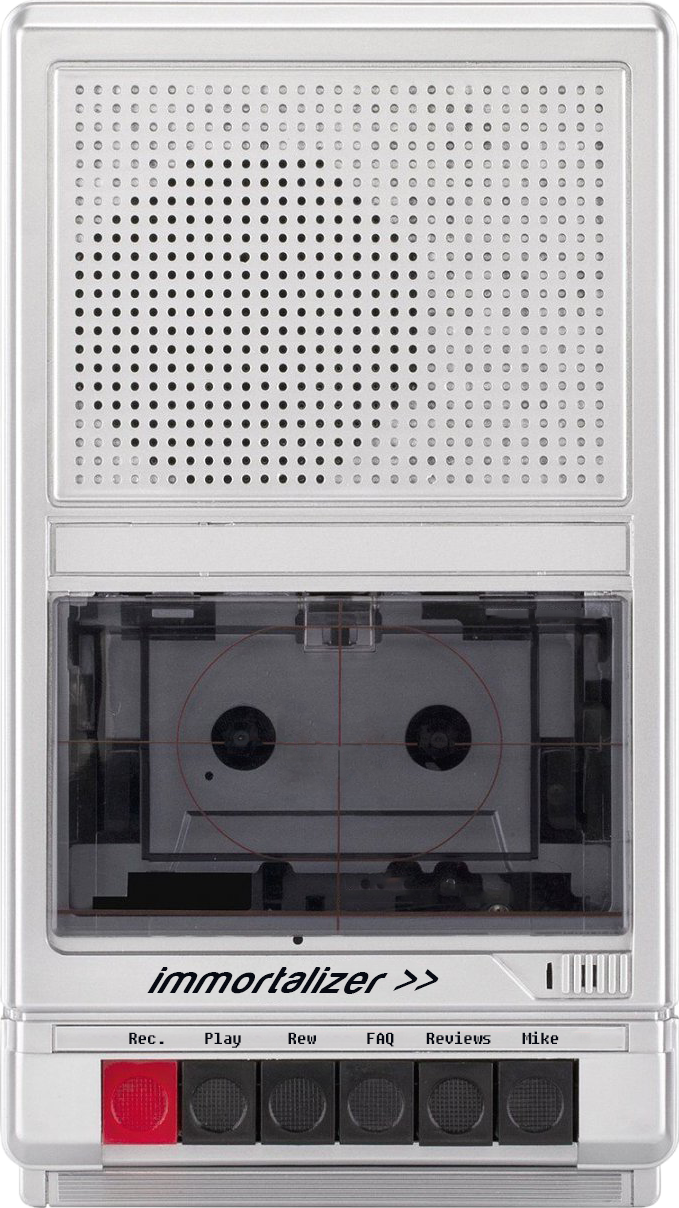
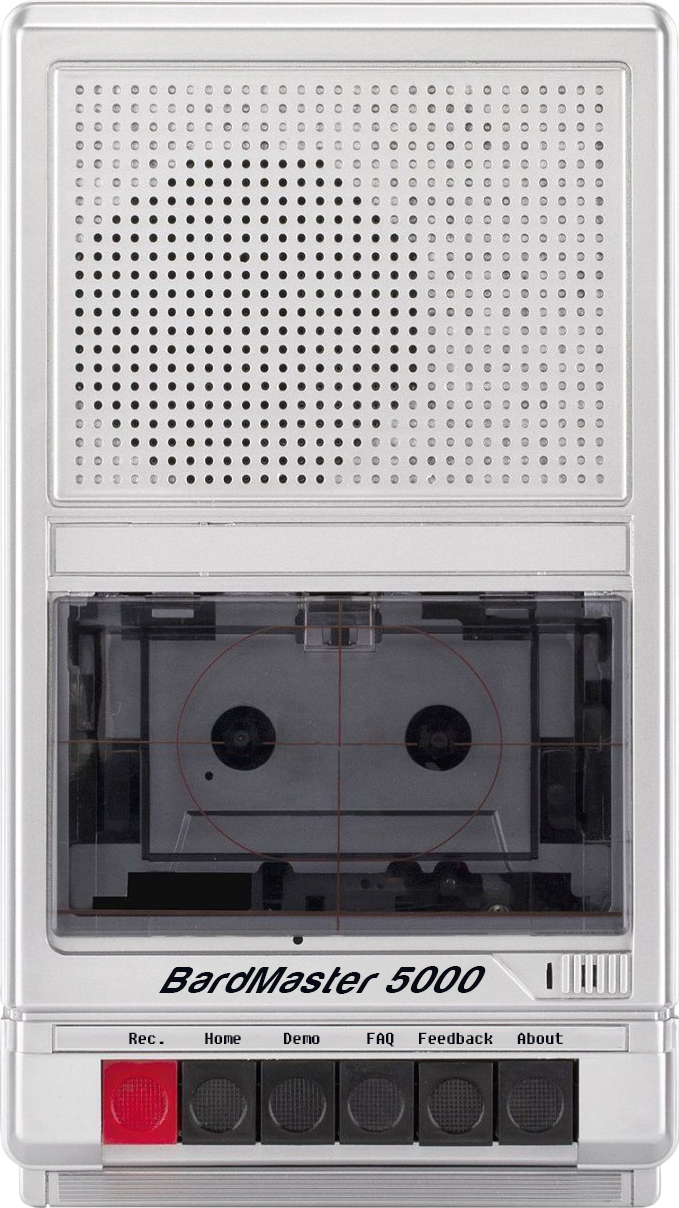
complete revamp of home (formerly welcome page)

diff --git a/src/components/Home.scss b/src/components/Home.scss
@@ -1,0 +1,81 @@
+div#Home-TinyPlayer {
+  position: relative;
+  max-width: calc(100vh * 0.53);
+  margin: 0 auto;
+  animation-delay: 2s;
+  animation-duration: 1s;
+  animation-name: playerFlyAway;
+  animation-iteration-count: 1;
+  animation-fill-mode: forwards;
+  animation-play-state: paused;
+
+  img#Home-TinyPlayer-cover {
+    position: absolute;
+    width: 87%;
+    bottom: 23%;
+    left: 7%;
+    z-index: 2;
+  }
+  img#Home-TinyPlayer-empty {
+    // the image of the player doesnt really need to do anything
+  }
+  div#Home-TinyTape {
+    position: absolute;
+    top: 5%;
+    left: 50%;
+    transform: translate(-50%, 0);
+    animation-duration: 1.5s;
+    animation-name: tapeInsert;
+    animation-iteration-count: 1;
+    animation-fill-mode: forwards;
+    animation-play-state: paused;
+    z-index: 1;
+
+    img#Home-TinySharpie {
+      position: absolute;
+      z-index: inherit;
+      width: 57%;
+      top: 12%;
+      left: 21%;
+    }
+  }
+}
+
+@keyframes tapeInsert {
+  0% {
+    z-index: 3;
+    width: 150%;
+    top: 5%;
+    left: 50%;
+    transform: translate(-50%, 0) rotate(0deg);
+  }
+  50% {
+    width: 60%;
+    top: 5%;
+    transform: translate(-50%, 0) rotate(360deg);
+  }
+  100% {
+    z-index: 2;
+    width: 60%;
+    top: 51%;
+    transform: translate(-50%, 0) rotate(360deg);
+  }
+}
+
+@keyframes playerFlyAway {
+  to {
+    margin: -100vh auto 0;
+  }
+}
+
+img#Home-Vommy {
+  z-index: -1;
+  top: 5%;
+  position: absolute;
+  left: 50%;
+  -webkit-transform: translateX(-50%);
+  -ms-transform: translateX(-50%);
+  transform: translateX(-50%);
+  max-height: 90%;
+  width: auto;
+}

diff --git a/src/components/common/NavDrawer.jsx b/src/components/common/NavDrawer.jsx
@@ -10,7 +10,7 @@ import { FontAwesomeIcon } from '@fortawesome/react-fontawesome';
 import { faBars } from '@fortawesome/free-solid-svg-icons';
 
 import tapePlayer from './../../assets/img/tiny_player_jack_buttons.png';
-import './../styles/NavDrawer.css';
+import './NavDrawer.css';
 import Login from './Login';
 import { Link, withRouter } from 'react-router-dom';
 
@@ -44,8 +44,8 @@ class NavDrawer extends React.Component {
         <Drawer anchor="top" open={this.state.top} onClose={this.toggleDrawer('top', false)}>
           <div style={{position:'relative'}} className={classes.playerSideNav}>
             <img src={tapePlayer} id="tape-player" />
-            <div id="click-welcome" role="button" onClick={this.toggleDrawer('top', false, '/')}></div>
-            <div id="click-play" role="button" onClick={this.toggleDrawer('top', false, '/portfolio')}></div>
+            <div id="click-home" role="button" onClick={this.toggleDrawer('top', false, '/')}></div>
+            <div id="click-demo" role="button" onClick={this.toggleDrawer('top', false, '/portfolio')}></div>
             <div id="click-faq" role="button" onClick={this.toggleDrawer('top', false, '/faq')}></div>
             <div id="click-about" role="button" onClick={this.toggleDrawer('top', false, '/about')}></div>
             <div id="click-feedback" role="button" onClick={this.toggleDrawer('top', false, '/feedback')}></div>

diff --git a/src/components/Home.jsx b/src/components/Home.jsx
@@ -1,0 +1,33 @@
+import React from 'react';
+import TinyTape from './common/TinyTape';
+import TinyPlayer from './../assets/img/tiny_player_jack_empty.png';
+import TinyPlayerCover from './../assets/img/tiny_player_jack_cover.png';
+import TinySharpie from './../assets/img/tiny_sharpie.png';
+import Vommy from './../assets/img/mike.gif';
+import './Home.css';
+
+function Home(props){
+  const handleTapeClick = () => {
+    document.getElementById("Home-TinyTape").style.WebkitAnimationPlayState = "running";
+    document.getElementById("Home-TinyPlayer").style.WebkitAnimationPlayState = "running";
+    setTimeout(() => {
+      props.history.push('/faq');
+    }, 3000);
+  }
+  return (
+    <div id="Home">
+      <p className="all-non-mobile-view-text">CURRENTLY ONLY MOBILE VIEW HAS BEEN DEVELOPED. PLEASE USE DEV TOOLS OR SHRINK SCREEN HORIZONTALLY.</p>
+      <div id="Home-TinyPlayer">
+        <div id="Home-TinyTape" onClick={handleTapeClick} >
+          <img src={TinySharpie} id="Home-TinySharpie"/>
+          <TinyTape />
+        </div>
+        <img src={TinyPlayerCover} id="Home-TinyPlayer-cover"/>
+        <img src={TinyPlayer} id="Home-TinyPlayer-empty"/>
+      </div>
+      <img src={Vommy} id="Home-Vommy"/>
+    </div>
+  );
+}
+
+export default Home;

diff --git a/src/components/common/TinyTape.jsx b/src/components/common/TinyTape.jsx
@@ -2,14 +2,14 @@ import React from 'react';
 import tinyTapeNoWheels from './../../assets/img/tiny_tape_nowheels.png';
 import tinyTapeWheelRight from './../../assets/img/tiny_tape_wheel_right.png';
 import tinyTapeWheelLeft from './../../assets/img/tiny_tape_wheel_left.png';
-// import './styles/TinyTape.css';
+import './TinyTape.css';
 
 function TinyTape(props){
   return (
-    <div>
-      <img src={tinyTapeNoWheels} alt="tiny anthems casette tape" className="Welcome-tape" />
-      <img src={tinyTapeWheelLeft} alt="tape wheel" />
-      <img src={tinyTapeWheelRight} alt="tape wheel" />
+    <div className="TinyTape">
+      <img src={tinyTapeNoWheels} alt="tiny anthems casette tape" className="TinyTape-tape" />
+      <img src={tinyTapeWheelLeft} alt="tape wheel" className="TinyTape-wheel-left"/>
+      <img src={tinyTapeWheelRight} alt="tape wheel" className="TinyTape-wheel-right" />
     </div>
   );
 }

diff --git a/src/components/About.jsx b/src/components/About.jsx
@@ -1,6 +1,6 @@
 import React from 'react';
 import mike from './../assets/img/mike.gif';
-import './styles/About.css';
+import './About.css';
 
 class About extends React.Component {
   componentDidMount() {
@@ -18,6 +18,7 @@ class About extends React.Component {
           In the depths of winter, a bored and intrepid minstrel set about the noble (nay, heroic) task of writing vainglorious ballads of the people of the world. In an effort to make life more radical and to generally, you know, get pumped up, Tiny Anthems is the attempt to offer citizens of the world the chance to be immortalized; to be enshrined in the glory of song.
         </p>
         <p>Mike likes songs and is a proud member of the clean plate club.</p>
+        <a className="About-readme-link" href="https://github.com/ckjpdx/tiny-anthems/blob/master/README.md" target="_blank">README</a>
       </div>
     );
   }

diff --git a/src/components/App.jsx b/src/components/App.jsx
@@ -7,7 +7,7 @@ import Faq from './Faq';
 import About from './About';
 import Portfolio from './Portfolio';
 import Feedback from './Feedback';
-import Welcome from './Welcome';
+import Home from './Home';
 import Admin from './Admin';
 import WriteReview from './WriteReview';
 import Quiz from './Quiz';
@@ -57,7 +57,7 @@ class App extends React.Component {
       <div className="App">
         {navAndTitle}
         <Switch>
-          <Route exact path='/' component={Welcome} />
+          <Route exact path='/' component={Home} />
           <Route path='/faq' component={Faq} />
           <Route path='/about' component={About} />
           <Route path='/portfolio' component={Portfolio} />

diff --git a/src/components/common/TinyTape.scss b/src/components/common/TinyTape.scss
@@ -1,0 +1,34 @@
+div.TinyTape {
+  position: relative;
+}
+img.TinyTape-tape {
+
+}
+@mixin spin-animation($spinSpeed) {
+  animation-name: spin;
+  animation-duration: $spinSpeed;
+  animation-iteration-count: infinite;
+  animation-timing-function: linear;
+}
+@keyframes spin {
+    from {
+        transform:rotate(0deg);
+    }
+    to {
+        transform:rotate(360deg);
+    }
+}
+img.TinyTape-wheel-left {
+  @include spin-animation(500ms);
+  position: absolute;
+  left: 23%;
+  top: 36%;
+  width: 11.5%;
+}
+img.TinyTape-wheel-right {
+  @include spin-animation(1000ms);
+  position: absolute;
+  left: 65%;
+  top: 36%;
+  width: 11.5%;
+}

diff --git a/src/components/common/NavDrawer.scss b/src/components/common/NavDrawer.scss
@@ -21,19 +21,19 @@ div#click-record {
   top: 27%;
   left: 15%;
 }
-div#click-welcome {
-  @include playerButtons;
-  width: 10%;
-  height: 40%;
-  top: 27%;
-  left: 38%;
-}
-div#click-play {
+div#click-home {
   @include playerButtons;
   width: 10%;
   height: 40%;
   top: 27%;
   left: 27%;
+}
+div#click-demo {
+  @include playerButtons;
+  width: 10%;
+  height: 40%;
+  top: 27%;
+  left: 38%;
 }
 div#click-faq {
   @include playerButtons;

diff --git a/src/components/About.scss b/src/components/About.scss
@@ -1,3 +1,9 @@
+a.About-readme-link {
+  position: absolute;
+  bottom: 6%;
+  transform: translate(-50%, 0);
+  z-index: inherit;
+}
 img#About-mike {
   width: 100%;
   margin: -10% auto;
